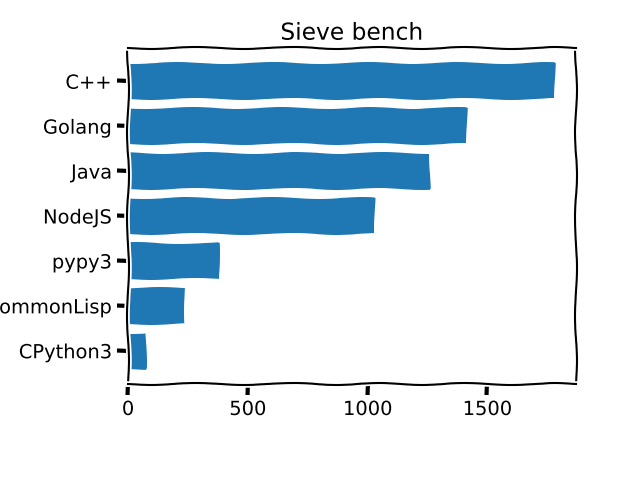
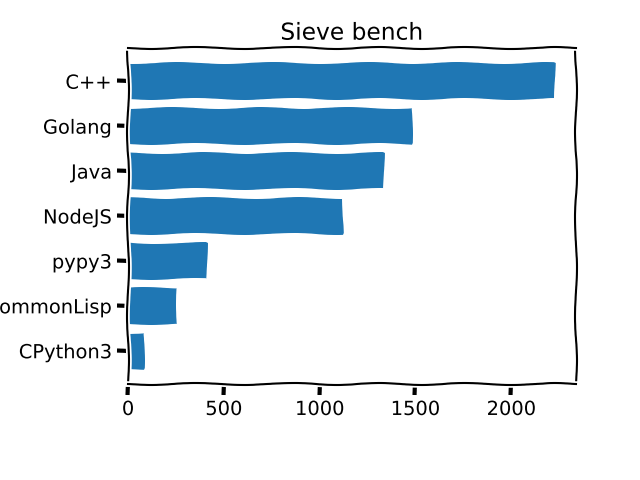
deploy: 390029b48352424db682c0a9458d8dce63a0f789

diff --git a/results/index.html b/results/index.html
@@ -263,48 +263,48 @@
                 
                 <h1 id="raw-results">Raw Results</h1>
 <p><img alt="plot" src="../plot1.png" /></p>
-<pre><code>Linux fv-az269-250 5.4.0-1043-azure #45-Ubuntu SMP Fri Mar 19 17:33:38 UTC 2021 x86_64 x86_64 x86_64 GNU/Linux
+<pre><code>Linux fv-az190-324 5.4.0-1043-azure #45-Ubuntu SMP Fri Mar 19 17:33:38 UTC 2021 x86_64 x86_64 x86_64 GNU/Linux
 
 
-1781
+2227
 C++
 g++ (Ubuntu 9.3.0-17ubuntu1~20.04) 9.3.0
 Copyright (C) 2019 Free Software Foundation, Inc.
 This is free software; see the source for copying conditions.  There is NO
 warranty; not even for MERCHANTABILITY or FITNESS FOR A PARTICULAR PURPOSE.
 
-1417
+1481
 Golang
 go version go1.13.8 linux/amd64
 
-1259
+1337
 Java
 openjdk 11.0.10 2021-01-19
 OpenJDK Runtime Environment AdoptOpenJDK (build 11.0.10+9)
 OpenJDK 64-Bit Server VM AdoptOpenJDK (build 11.0.10+9, mixed mode)
 
-1033
+1122
 NodeJS
 v14.16.0
 
-76
+85
 CPython3
 Python 3.8.5
 
-379
+413
 pypy3
 Python 3.6.9 (7.3.1+dfsg-4, Apr 22 2020, 05:15:29)
 [PyPy 7.3.1 with GCC 9.3.0]
 
-236
+255
 CommonLisp
 SBCL 2.0.1.debian
 
-76
+85
 CPython3
 Python 3.8.5
 
-379
+413
 pypy3
 Python 3.6.9 (7.3.1+dfsg-4, Apr 22 2020, 05:15:29)
 [PyPy 7.3.1 with GCC 9.3.0]
